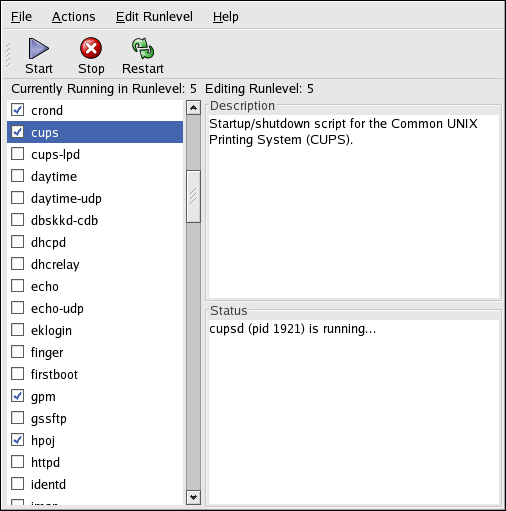
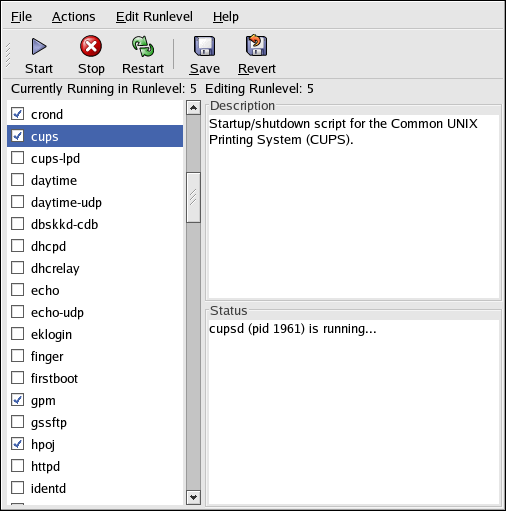
[project @ 2003-05-21 18:25:58 by tfox] update image for 0.8.5, a few other minor tweaks like updating date

diff --git a/docs/html/index.html b/docs/html/index.html
@@ -44,7 +44,7 @@ CLASS="COPYRIGHT"
 ><A
 HREF="legalnotice.html"
 >Copyright</A
-> &copy; 2002 by Red Hat, Inc.</P
+> &copy; 2002-2003 by Red Hat, Inc.</P
 ><HR
 WIDTH="75%"
 ALIGN="CENTER"
@@ -385,7 +385,7 @@ CLASS="APPLICATION"
 >    To submit bugs or requests for enhancements, go to <A
 HREF="http://bugzilla.redhat.com/bugzilla/"
 TARGET="_top"
->http://bugzilla.redhat.com/bugzilla</A
+>http://bugzilla.redhat.com/bugzilla/</A
 >
     and submit a bug against the component
     <TT
